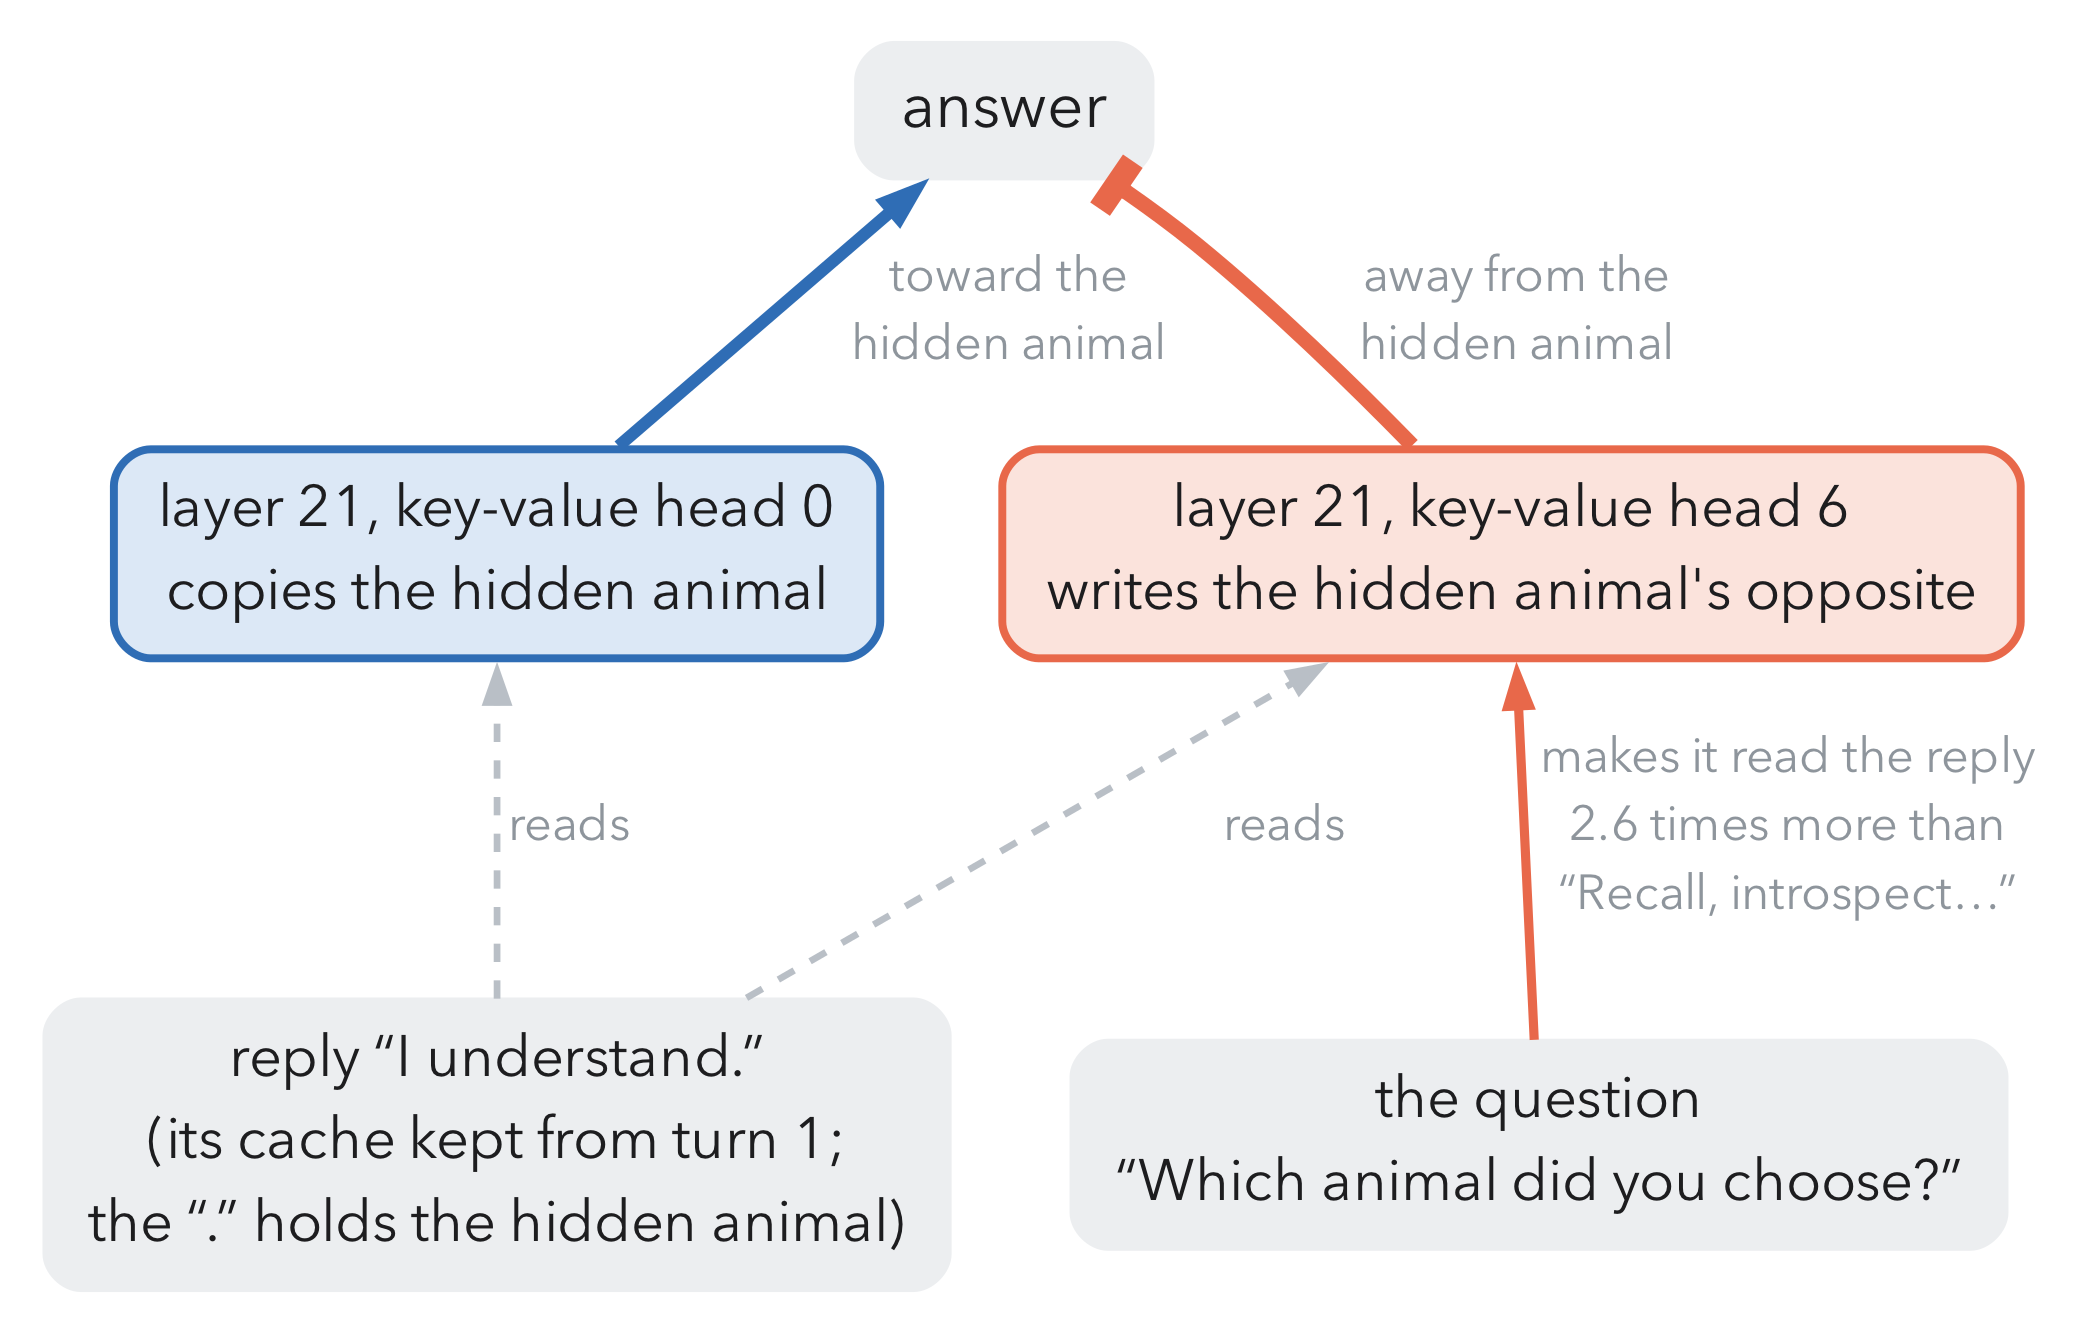
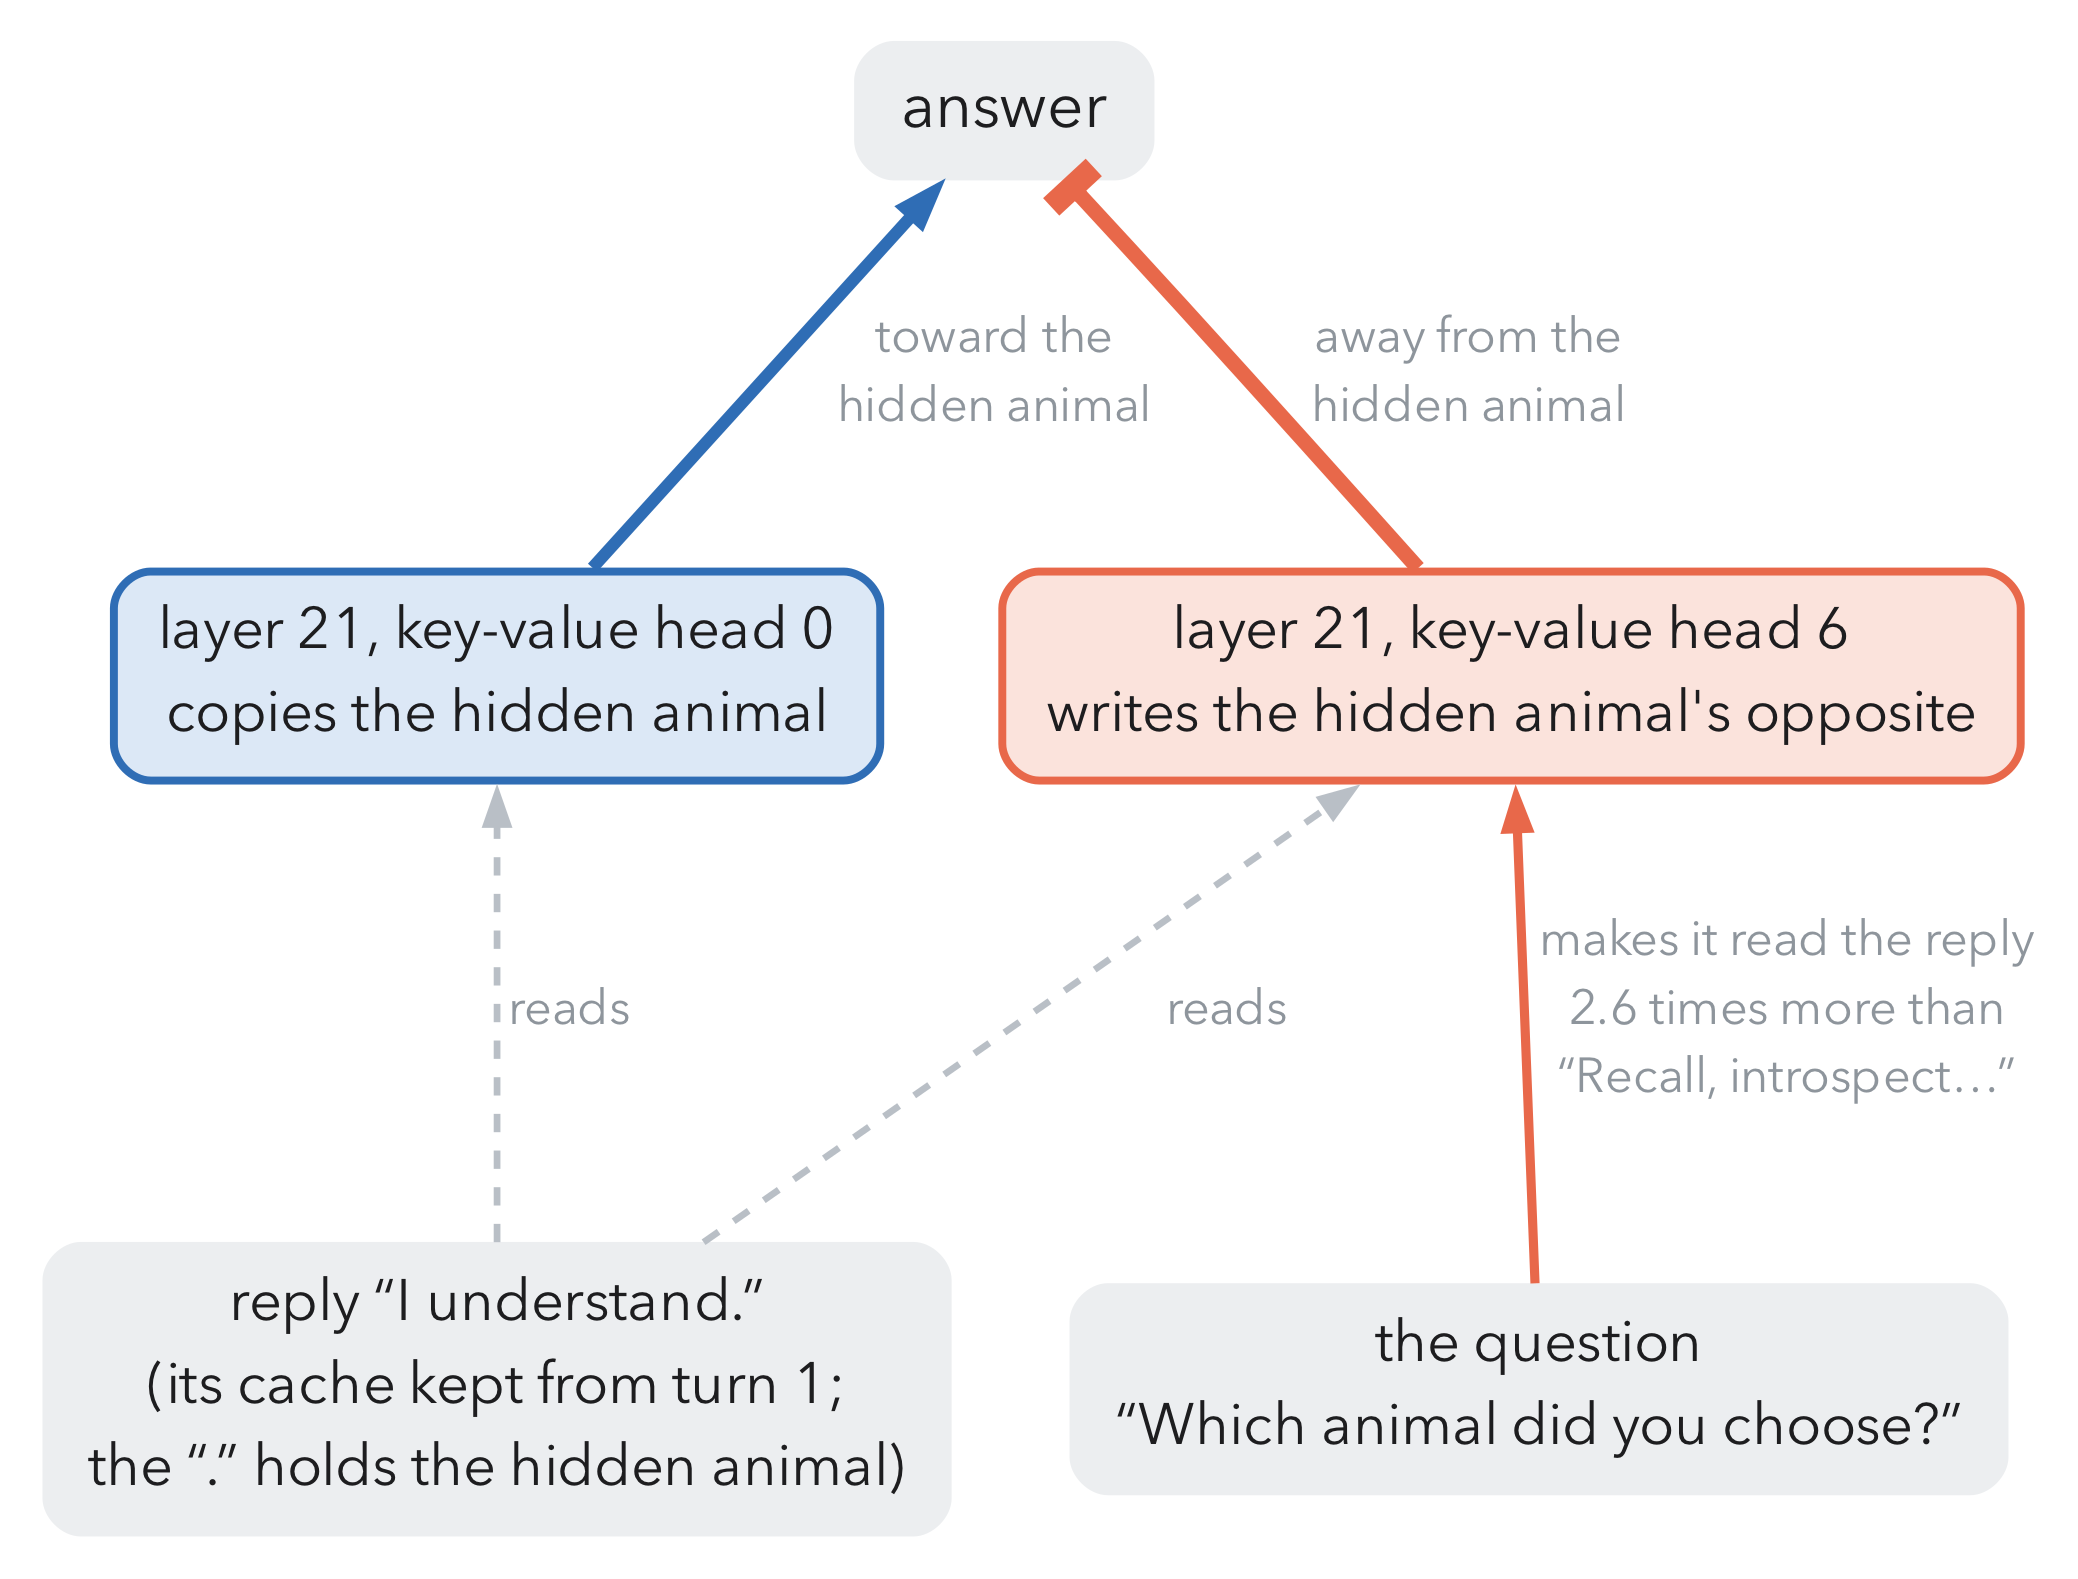
Layout: each panel's plot starts right under its key (e, f, g, i grow to fill), the circuit diagrams are laid out taller and sit right under their titles and keys (h, j)

diff --git a/figure_main.py b/figure_main.py
@@ -461,14 +461,14 @@ def row_head(cv, y0, flip_groups, npz, other):
         cv.S.text(20.25, yy, lab, fontsize=17, color=col, va="center")
     held = npz.split("+")[0]
     groups = [(npz, "none", "Qwen3-1.7B"), (other, "none", "Qwen3-0.6B"), (held, "21:6*0", "Qwen3-1.7B,\nhead 21.6\nswitched off")]
-    ax = cv.axes(20.9, y0 + 2.6, 5.75, 5.2)
+    ax = cv.axes(20.9, y0 + 2.6, 5.75, ROWS[1] - 5.6)
     panel_paired(ax, [(saved_logp(sp, f"{e}|retained")[0], saved_logp(sp, f"{e}|recall_B")[0], saved_logp(sp, f"{e}|retained")[1])
                       for sp, e, _ in groups], (5, 102))
     ax.set_xticks([3 * k + 0.6 for k in range(len(groups))], [lab for *_, lab in groups], fontsize=18)
     ax.set_ylabel("hidden animal ranked above\nanother animal (%)")
     ax.tick_params(axis="x", length=0)
     ax.set_yticks([10, 30, 50, 70, 90])
-    cb = cv.fig.colorbar(matplotlib.cm.ScalarMappable(norm=FC_NORM, cmap=FC_CMAP), cax=cv.axes(26.8, y0 + 2.6, 0.2, 5.2))
+    cb = cv.fig.colorbar(matplotlib.cm.ScalarMappable(norm=FC_NORM, cmap=FC_CMAP), cax=cv.axes(26.8, y0 + 2.6, 0.2, ROWS[1] - 5.6))
     cb.set_ticks([-1, 0, 1], labels=["½×", "1×", "2×"])
     cb.set_label("change per line (d-g)", fontsize=16, labelpad=2)
     cb.ax.tick_params(labelsize=17)
@@ -496,7 +496,7 @@ def row_controls(cv, y0, npz, other):
     for yy, col, lab in ((top - 2.25, SLATE, "question alone"), (top - 2.8, BLUE, "Janus's LLM explainer first")):
         cv.S.scatter([1.1], [yy], s=110, color=col)
         cv.S.text(1.35, yy, lab, fontsize=19, color=col, va="center")
-    ax = cv.axes(1.9, y0 + 1.6, 5.9, 5.5)
+    ax = cv.axes(1.9, y0 + 1.6, 5.9, ROWS[2] - 4.9)
     panel_paired(ax, [(saved_logp(sp, f"none|{q0}")[0], saved_logp(sp, f"none|{qd}")[0], saved_logp(sp, f"none|{q0}")[1])
                       for sp, _, q0, _, qd, _ in qs], (0, 102))
     ax.set_xticks([3 * k + 0.6 for k in range(len(qs))], [lab for *_, lab in qs], fontsize=16)
@@ -512,7 +512,7 @@ def row_controls(cv, y0, npz, other):
                             (9.9, top - 2.8, BLUE, "Janus's LLM explainer first")):
         cv.S.scatter([x], [yy], s=110, color=col)
         cv.S.text(x + 0.25, yy, lab, fontsize=19, color=col, va="center")
-    ax = cv.axes(10.4, y0 + 1.6, 7.7, 5.5)
+    ax = cv.axes(10.4, y0 + 1.6, 7.7, ROWS[2] - 4.9)
     panel_triple(ax, [((saved_logp(sp, f"none|{q0}")[0], saved_logp(cp, f"none|{qc}")[0], saved_logp(sp, f"none|{qd}")[0]),
                        saved_logp(sp, f"none|{q0}")[1]) for sp, cp, q0, qc, qd, _ in qs], (0, 120))
     ax.set_xticks([4 * k + 1.15 for k in range(len(qs))], [lab for *_, lab in qs], fontsize=16)
@@ -521,7 +521,7 @@ def row_controls(cv, y0, npz, other):
 
     cv.letter(18.9, top - 0.75, "h")
     cv.S.text(19.7, top - 0.75, "Qwen3-1.7B: the head circuit", fontsize=25, weight="bold", va="center")
-    image(cv, circuit_dot.render(circuit_dot.qwen_dot(), "figs/circuit_qwen"), 18.9, top - 1.6, 9.0, 9.2, middle=True)
+    image(cv, circuit_dot.render(circuit_dot.qwen_dot(), "figs/circuit_qwen"), 18.9, top - 1.35, 9.0, ROWS[2] - 1.6)
 
 
 def row_fourlayer(cv, refits, parts, y0):
@@ -546,11 +546,11 @@ def row_fourlayer(cv, refits, parts, y0):
     cv.S.text(0.9, top - 0.75, f"Goodfire 4-layer model: rescaling {k90}\nVPD subcomponents makes the hidden word\n"
               f"the top answer {t90:.0f}% of the time (from {base:.0f}%)",
               fontsize=25, weight="bold", va="center", linespacing=1.15)
-    ax = cv.axes(2.4, y0 + 1.6, 5.4, 6.2)
+    ax = cv.axes(2.4, y0 + 1.6, 5.4, ROWS[3] - 3.9)
     ax.plot(ks, t1, "-", color=CLOUD, lw=2.5, zorder=2)
     sc = ax.scatter(ks, t1, c=kl, cmap=LinearSegmentedColormap.from_list("kl", ["#d6e4f5", BLUE, INK]),
                     vmin=0, vmax=max(0.05, float(kl.max())), s=110, edgecolor="white", lw=1.2, zorder=3)
-    cb = cv.fig.colorbar(sc, cax=cv.axes(8.2, y0 + 1.6, 0.22, 6.2))
+    cb = cv.fig.colorbar(sc, cax=cv.axes(8.2, y0 + 1.6, 0.22, ROWS[3] - 3.9))
     cb.set_label("damage on held-out Pile text\n(KL, nats per token)", fontsize=17)
     cb.ax.tick_params(labelsize=15)
     cb.outline.set_visible(False)
@@ -570,9 +570,9 @@ def row_fourlayer(cv, refits, parts, y0):
     share = 1 - stress["routes"]["circuit blocked"]["raise"] / stress["unedited"]["raise"]    # blocking both steps
     cv.S.text(11.2, top - 0.75, f"Goodfire 4-layer model: the attention route behind {100 * share:.0f}% of recall",
               fontsize=25, weight="bold", va="center", linespacing=1.15)
-    key(cv, 11.4, top - 2.3)
+    key(cv, 11.4, top - 1.8)
     image(cv, circuit_dot.render(*circuit_dot.gates_dot(g)[:1], "figs/circuit_gates", snap=circuit_dot.gates_dot(g)[1]),
-          10.6, top - 3.1, 17.2, 9.1, middle=True)
+          10.6, top - 2.75, 17.2, ROWS[3] - 3.0)
 
 
 def key(cv, x, y):

diff --git a/circuit_dot.py b/circuit_dot.py
@@ -78,7 +78,7 @@ def gates_dot(g):
         wires.append(f'  {a} -> {a}_{b} -> {b} [style=invis, weight=3];')
         return "\n".join(wires)
     return f"""digraph G {{
-  rankdir=LR; splines=spline; nodesep=0.3; ranksep=0.45; bgcolor="white"; pad=0.1;
+  rankdir=LR; splines=spline; nodesep=0.48; ranksep=0.45; bgcolor="white"; pad=0.1;
   node [shape=box, fontname="{FONT}", fontsize=37, margin="0.18,0.1"];
   edge [fontname="{FONT}", fontsize=31, fontcolor="{SLATE}"];
   {{ rank=same; word [label="hidden word\n“fox”", {token}]; later [label="later tokens\n“. Nobody else knows.”", {token}];
@@ -110,7 +110,7 @@ def qwen_dot():
     how much the suppressing head reads."""
     token = f'style="rounded,filled", fillcolor="{PALE_SLATE}", color="{PALE_SLATE}", fontcolor="{INK}"'
     return f"""digraph G {{
-  rankdir=BT; splines=spline; nodesep=0.55; ranksep=0.6; bgcolor="white"; pad=0.2;
+  rankdir=BT; splines=spline; nodesep=0.55; ranksep=1.15; bgcolor="white"; pad=0.2;
   node [shape=box, fontname="{FONT}", fontsize=19, margin="0.2,0.1"];
   edge [fontname="{FONT}", fontsize=16, fontcolor="{SLATE}"];
   {{ rank=same; reply [label="reply “I understand.”\\n(its cache kept from turn 1;\\nthe “.” holds the hidden animal)", {token}];
